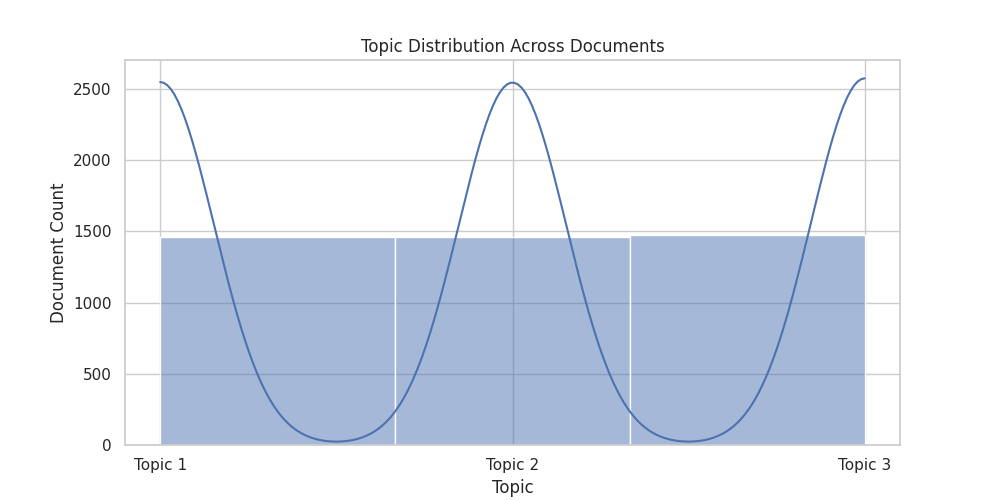
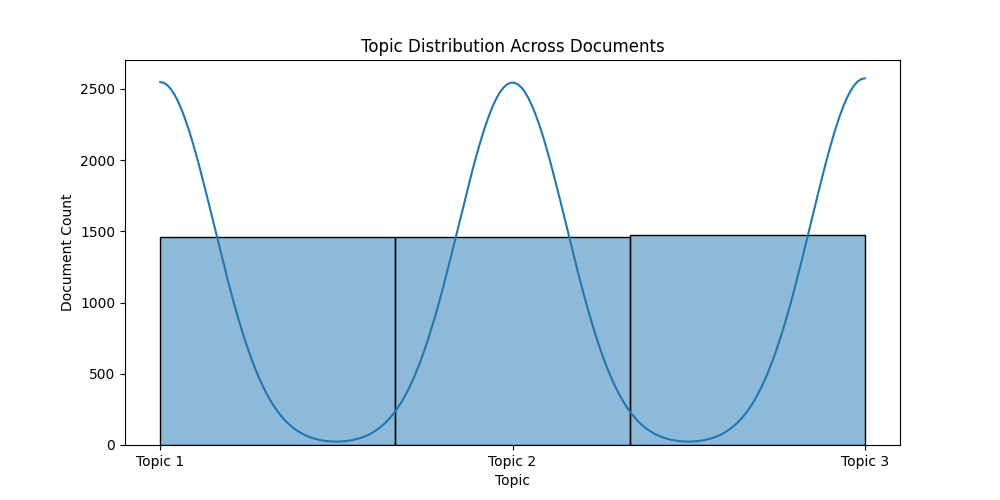
added guide-documentation

diff --git a/templates/guide.html b/templates/guide.html
@@ -1,0 +1,137 @@
+{% extends "base.html" %}
+
+{% block title %}Guide & Documentation - iMedius Text Analysis Platform{% endblock %}
+
+{% block extra_styles %}
+<style>
+  .guide-section {
+    padding: 60px 0;
+    background: linear-gradient(135deg, var(--secondary-color) 0%, var(--ciel-light) 100%);
+  }
+  .guide-card {
+    background: #fff;
+    border-radius: 12px;
+    padding: 40px;
+    margin-bottom: 30px;
+    box-shadow: 0 4px 12px rgba(0,80,115,0.08);
+  }
+  .guide-card h2, .guide-card h3 {
+    color: var(--primary-color);
+    font-weight: 700;
+    margin-bottom: 18px;
+  }
+  .guide-card ul, .guide-card ol {
+    margin-bottom: 1.5rem;
+  }
+  .guide-glossary-term {
+    color: var(--primary-color-dark);
+    font-weight: 600;
+  }
+  .guide-glossary-def {
+    color: var(--accent-color);
+    margin-bottom: 1rem;
+  }
+</style>
+{% endblock %}
+
+{% block content %}
+<section class="guide-section">
+  <div class="container">
+    <div class="guide-card mb-5">
+      <h2><i class="fas fa-book-open me-2"></i> Guide & Documentation</h2>
+      <p>Welcome to the iMedius Text Analysis Platform! This guide will help you get started, understand the available features, and explain the scientific methods and terms used throughout the app.</p>
+    </div>
+
+    <div class="guide-card">
+      <h3>Getting Started</h3>
+      <ol>
+        <li>Go to <b>Analyze</b> and upload your CSV file. The file should have at least one column named <code>text</code> (and optionally <code>sentiment</code> for labeled data).</li>
+        <li>Choose the type of analysis you want: <b>Topic Modeling</b>, <b>Sentiment Analysis</b>, or <b>Text Summarization</b>.</li>
+        <li>Configure the parameters as needed, or use the defaults for a quick start.</li>
+        <li>View your results in the interactive tabs: Data Preview, Word Cloud, Summary, Topic Modelling, and Sentiment Analysis.</li>
+      </ol>
+    </div>
+
+    <div class="guide-card">
+      <h3>Data Upload</h3>
+      <ul>
+        <li>Your CSV should contain a <code>text</code> column with the text to analyze.</li>
+        <li>For sentiment analysis training, add a <code>sentiment</code> column with labels (e.g., positive, negative, neutral).</li>
+        <li>For best results, use UTF-8 encoding and clean your data of irrelevant symbols or empty rows.</li>
+      </ul>
+    </div>
+
+    <div class="guide-card">
+      <h3>Analysis Methods</h3>
+      <ul>
+        <li><b>Topic Modeling</b>:
+          <ul>
+            <li><span class="guide-glossary-term">LDA (Latent Dirichlet Allocation):</span> A probabilistic model that discovers topics in a collection of texts by grouping words that frequently appear together. <b>Best for:</b> General topic discovery, interpretable topics, and when you want to see word distributions per topic.</li>
+            <li><span class="guide-glossary-term">NMF (Non-negative Matrix Factorization):</span> A linear algebra-based method for extracting topics by factorizing the document-term matrix into interpretable components. Uses TF-IDF as input for better topic quality. <b>Best for:</b> Shorter texts, when you want more distinct, non-overlapping topics, or when using TF-IDF features.</li>
+            <li><span class="guide-glossary-term">CoreX:</span> A topic modeling method that uses anchor words to guide topic discovery, providing more interpretable and stable topics with less overlap between topics. <b>Best for:</b> When you have domain expertise and can identify key anchor words, when you want more interpretable topics with less overlap, for specialized domains like medical, legal, or technical documents, and when you need more stable topic assignments across different runs.</li>
+          </ul>
+        </li>
+        <li><b>Sentiment Analysis</b>:
+          <ul>
+            <li><b>Classic:</b> Standard prediction using the selected model. Fast and suitable for most use cases.</li>
+            <li><b>MC (Monte Carlo Dropout):</b> Uses dropout at prediction time to estimate model uncertainty by running multiple forward passes. <b>Best for:</b> When you want to know how confident the model is in its predictions.</li>
+            <li><b>Uncertainty Threshold:</b> When using MC dropout, this parameter lets you set a threshold for how much uncertainty is allowed before a prediction is considered 'uncertain.' Lower values mean stricter filtering; higher values allow more uncertain predictions.</li>
+            <li><b>Rule-based (SentiStrength):</b> Uses a dictionary and rules to estimate sentiment strength, especially for short texts.</li>
+          </ul>
+        </li>
+        <li><b>Text Summarization</b>:
+          <ul>
+            <li>Automatically generates concise abstractive summaries of your text data using the <b>IMISLab/GreekT5-mt5-small-greeksum</b> model, which is specifically fine-tuned for Greek text summarization.</li>
+          </ul>
+        </li>
+      </ul>
+    </div>
+
+    <div class="guide-card">
+      <h3>Available Machine Learning Models</h3>
+      <ul>
+        <li><b>datasetSpellchecked:</b> Trained on a homebrew scrape from the Skroutz Greek product review dataset. <b>Best for:</b> Product reviews, general Greek sentiment tasks.</li>
+        <li><b>pharmSpellchecked:</b> Trained on a Greek hate speech tweets dataset. <b>Best for:</b> Social media, hate speech, Greek text.</li>
+        <li><b>datasetTLonPharm:</b> The datasetSpellchecked model, further fine-tuned (transfer learning) on the pharm dataset. <b>Best for:</b> When you want a model that generalizes well but is also adapted to the social media, hate speech and sociopolitical domain.</li>
+        <li><b>datasetAndPharmSpellchecked:</b> Trained on a combination of the above datasets for broader coverage.</li>
+        <li><b>datasetAndPharmTranslatedSpellchecked:</b> Trained on translated and spellchecked versions of the above datasets for improved robustness.</li>
+        <li><b>pharm_translated_greek_spellchecked:</b> Trained on translated, spellchecked sociopolitical and hate speech tweets for maximum domain adaptation.</li>
+        <li><b>sentistrength:</b> A rule-based model for quick, language-agnostic sentiment estimation.</li>
+      </ul>
+      <p class="mt-3"><b>Tip:</b> For product reviews, use <b>datasetSpellchecked</b>. For social media, hate speech and sociopolitical content, use <b>pharmSpellchecked</b> or <b>datasetTLonPharm</b>. For general Greek text, try <b>datasetAndPharmSpellchecked</b> or <b>datasetAndPharmTranslatedSpellchecked</b>.</p>
+    </div>
+
+    <div class="guide-card">
+      <h3>Glossary of Scientific Terms</h3>
+      <div class="guide-glossary-term">LDA (Latent Dirichlet Allocation)</div>
+      <div class="guide-glossary-def">A topic modeling technique that assumes each document is a mixture of topics and each topic is a mixture of words. Useful for discovering hidden thematic structure in large text collections.</div>
+      <div class="guide-glossary-term">NMF (Non-negative Matrix Factorization)</div>
+      <div class="guide-glossary-def">A matrix factorization method that decomposes the document-term matrix into non-negative factors, revealing interpretable topics.</div>
+      <div class="guide-glossary-term">TF-IDF (Term Frequency-Inverse Document Frequency)</div>
+      <div class="guide-glossary-def">A numerical statistic that reflects how important a word is to a document in a collection. Used for weighting words in topic modeling and other analyses.</div>
+      <div class="guide-glossary-term">CoreX</div>
+      <div class="guide-glossary-def">A topic modeling method that uses anchor words to guide topic discovery, providing more interpretable and stable topics with less overlap between topics. Best for specialized domains (medical, legal, technical), when you have domain expertise to identify key terms, and when you need consistent topic assignments across multiple runs.</div>
+      <div class="guide-glossary-term">Sentiment Analysis</div>
+      <div class="guide-glossary-def">The process of determining the emotional tone behind a body of text, classifying it as positive, negative, or neutral.</div>
+      <div class="guide-glossary-term">SentiStrength</div>
+      <div class="guide-glossary-def">A rule-based sentiment analysis tool that estimates the strength of positive and negative sentiment in short texts.</div>
+      <div class="guide-glossary-term">Word Cloud</div>
+      <div class="guide-glossary-def">A visual representation of word frequency in your data, where more frequent words appear larger.</div>
+      <div class="guide-glossary-term">Preprocessing</div>
+      <div class="guide-glossary-def">The steps taken to clean and prepare text data for analysis, such as removing stopwords, punctuation, and normalizing case.</div>
+      <div class="guide-glossary-term">Abstractive Summary</div>
+      <div class="guide-glossary-def">A type of text summarization that generates new sentences to capture the main ideas, rather than just extracting existing sentences. The summary may contain words and phrases not present in the original text, making it more concise and readable.</div>
+    </div>
+
+    <div class="guide-card">
+      <h3>Tips & Best Practices</h3>
+      <ul>
+        <li>Review your data before uploading to ensure quality results.</li>
+        <li>Experiment with different topic modeling parameters for deeper insights.</li>
+        <li>Use the <b>Contribute</b> page to help improve the platform by submitting datasets or annotations.</li>
+        <li>Check the <b>About</b> page for more information about the research team and project.</li>
+      </ul>
+    </div>
+  </div>
+</section>
+{% endblock %} 

diff --git a/templates/analysis_results.html b/templates/analysis_results.html
@@ -1209,7 +1209,7 @@
               <div class="form-group">
                 <label for="mode">Modelling Method</label>
                 <select class="form-control" id="mode" name="mode">
-                  <option value="tfidf">TF-IDF with NMF (Term Frequency-Inverse Document Frequency)</option>
+                  <option value="tfidf">TF-IDF with NMF (Term Frequency-Inverse Document Frequency with Non-negative Matrix Factorization)</option>
                   <option value="lda">LDA (Latent Dirichlet Allocation)</option>
                   <option value="corex">CorEx (Correlation Explanation)</option>
                 </select>

diff --git a/templates/base.html b/templates/base.html
@@ -157,6 +157,9 @@
           <li class="nav-item {% if request.endpoint == 'contact' %}active{% endif %}">
             <a class="nav-link" href="/contact"><i class="fas fa-envelope"></i> Contact</a>
           </li>
+          <li class="nav-item {% if request.endpoint == 'guide' %}active{% endif %}">
+            <a class="nav-link" href="/guide"><i class="fas fa-book"></i> Guide</a>
+          </li>
         </ul>
       </div>
     </div>

diff --git a/sentiment_prediction.py b/sentiment_prediction.py
@@ -21,7 +21,7 @@ import sentimark  # Import the sentimark module
 
 # Available models for UI dropdown
 AVAILABLE_MODELS = [
-    "sentistrength",  # Add sentistrength as an option
+    "sentistrength",  
     "pharmSpellchecked",
     "pharm_translated_greek_spellchecked",
     "datasetSpellchecked_TL_On_pharmSpellchecked",

diff --git a/main.py b/main.py
@@ -1012,5 +1012,10 @@ def download(filename):
         flash(f'Error downloading file: {str(e)}', 'error')
         return redirect(url_for('index'))
 
+@app.route('/guide')
+def guide():
+    """Guide and documentation page"""
+    return render_template('guide.html')
+
 if __name__ == '__main__':
     app.run(debug=True)
